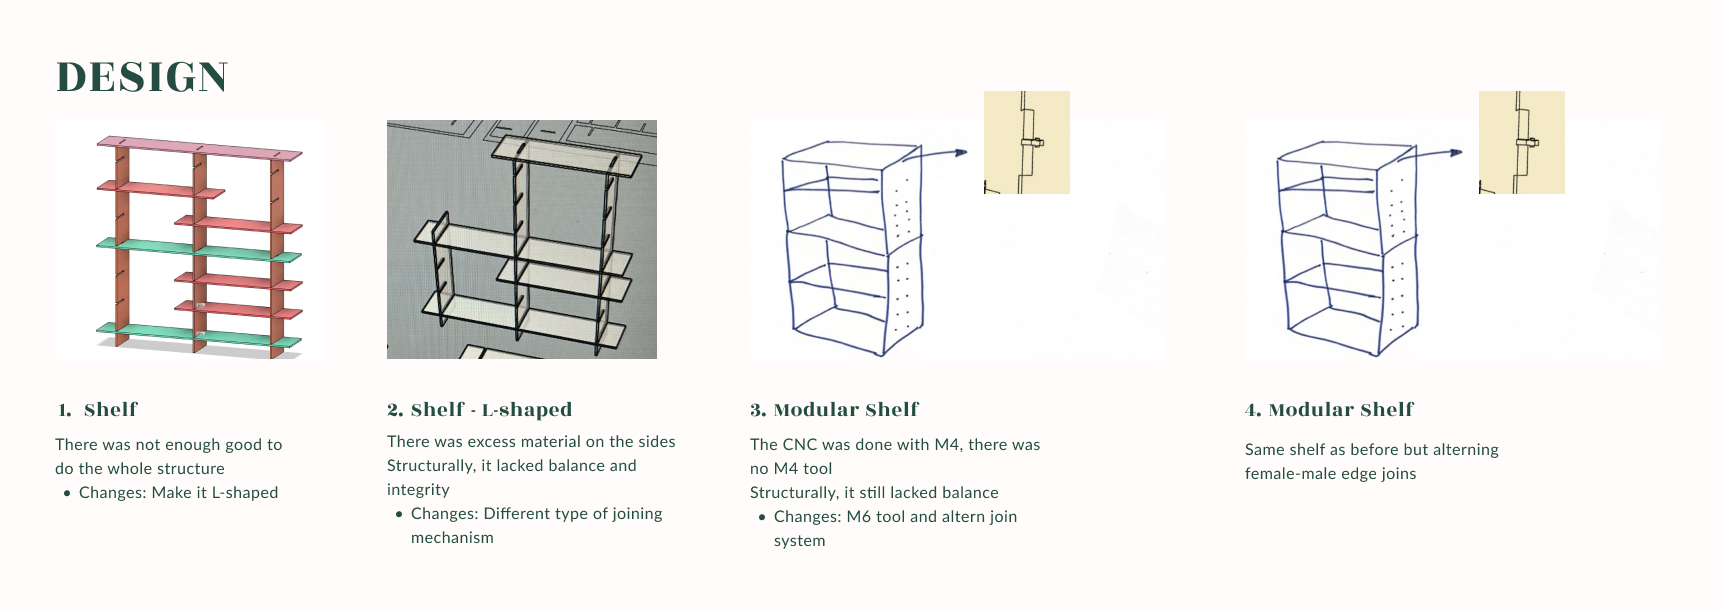
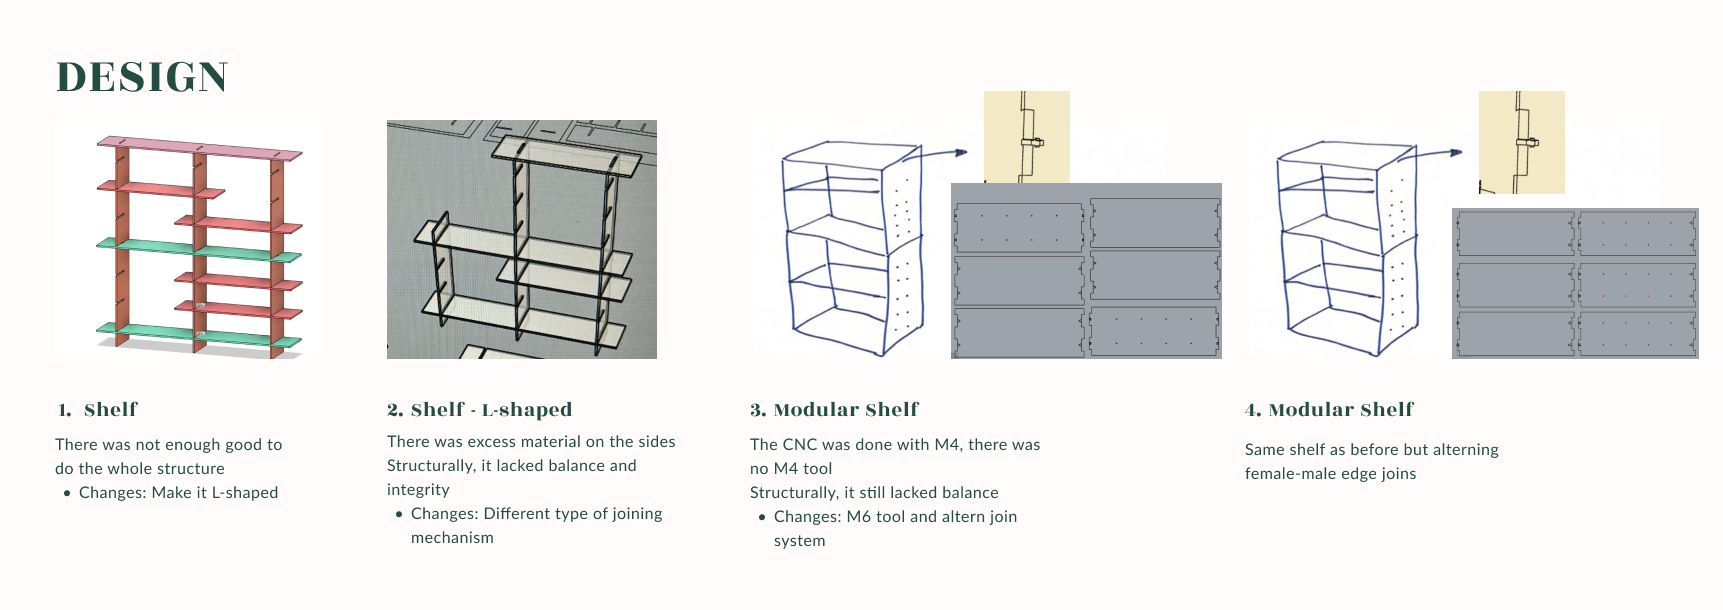
detaiks

Changed region(s): [[0.5537, 0.2803, 0.7075, 0.5918], [0.8305, 0.3426, 1.0, 0.5918]]

diff --git a/docs/term3/06-DigitalPrototyping.md b/docs/term3/06-DigitalPrototyping.md
@@ -13,11 +13,22 @@ hide:
 > Núria Valsells, Oliver Lloyd and Carmen Robres
 
 ### References
+![](../../images\term3\Prototyping\RefesM3.jpg) 
 
 
 ### Process
+At first, we had to make several changes to the product design. Initially, we attempted to create a modular and large shelving unit. However, we soon realized that we didn't have enough wood to construct a shelving unit made up of four blocks. Therefore, we opted to create an L-shaped structure to reduce the amount of wood needed. 
 
-![](../../images\term3\Prototyping\PROCESS.jpg) 
+This design better suited our requirements and the available materials. However, when we presented this design for cutting, we were informed that it lacked balance due to excess material on the sides, and it didn't guarantee stability. Consequently, we redesigned the structure to consist of cubes, small squares that could be added both vertically and horizontally. 
+
+This time, we focused on just two blocks instead of three and incorporated further structural changes to ensure balance. We transitioned from using pressure-based joints to employing a T-joint system, which required screws and washers to secure the pieces together. Additionally, to insert the shelves into the cubes, we utilized a typical Ikea-style system where holes were drilled, and small wooden pegs to support the shelves. 
+
+However, we encountered two structural issues: the initial design was intended for a CNC M4 machine, which was broken, necessitating a design change, and the male-female joint configuration was modified to ensure structural integrity by making each piece have both male and female sides for better grip and stability. These adjustments were made, and we were finally able to print and cut using the CNC machine.
+
+![](../../images\term3\Prototyping\PROCESS.jpg)
+
+
+![](../../images\term3\Prototyping\PROCESS2.jpg)
 
 
 

diff --git a/docs/term3/07-Microchallenge.md b/docs/term3/07-Microchallenge.md
@@ -1,0 +1,20 @@
+---
+hide:
+    - toc
+---
+
+# Microchallenge
+<div style="height:2px; background-color: #E17858; margin-top: 40px; margin-bottom: -20px;"></div>
+
+
+## Embodying Surveillance
+> 7th - 10th of May 
+
+> Anna Fedele and Carmen Robres
+### Repository
+For this week, we decided to combine two projects that had originated from the first microchallenge, where Ana had a representation of abuse throught tech devices, and I had the anxiety necklaces that I explained in the first microchallenge. Essentially, what we did was, in order to join forces, we wanted to create a graphic representation of what health is, specifically mental health regarding anxiety, and physical health regarding abuse. Our research on understanding and making devices that could collect data and reprocess it in order to create an artistic artifact that is a mapping of these.
+
+<span style="background-color: #FFFCFA; padding: 10px; border: 1px solid #699ADA;"> [Check out the repository](https://github.com/annafedele/microchallenge-II).</span>
+
+### Reflection
+![](../../images\term2\Microchallenge\micro.png){style: width="480", align=left}
